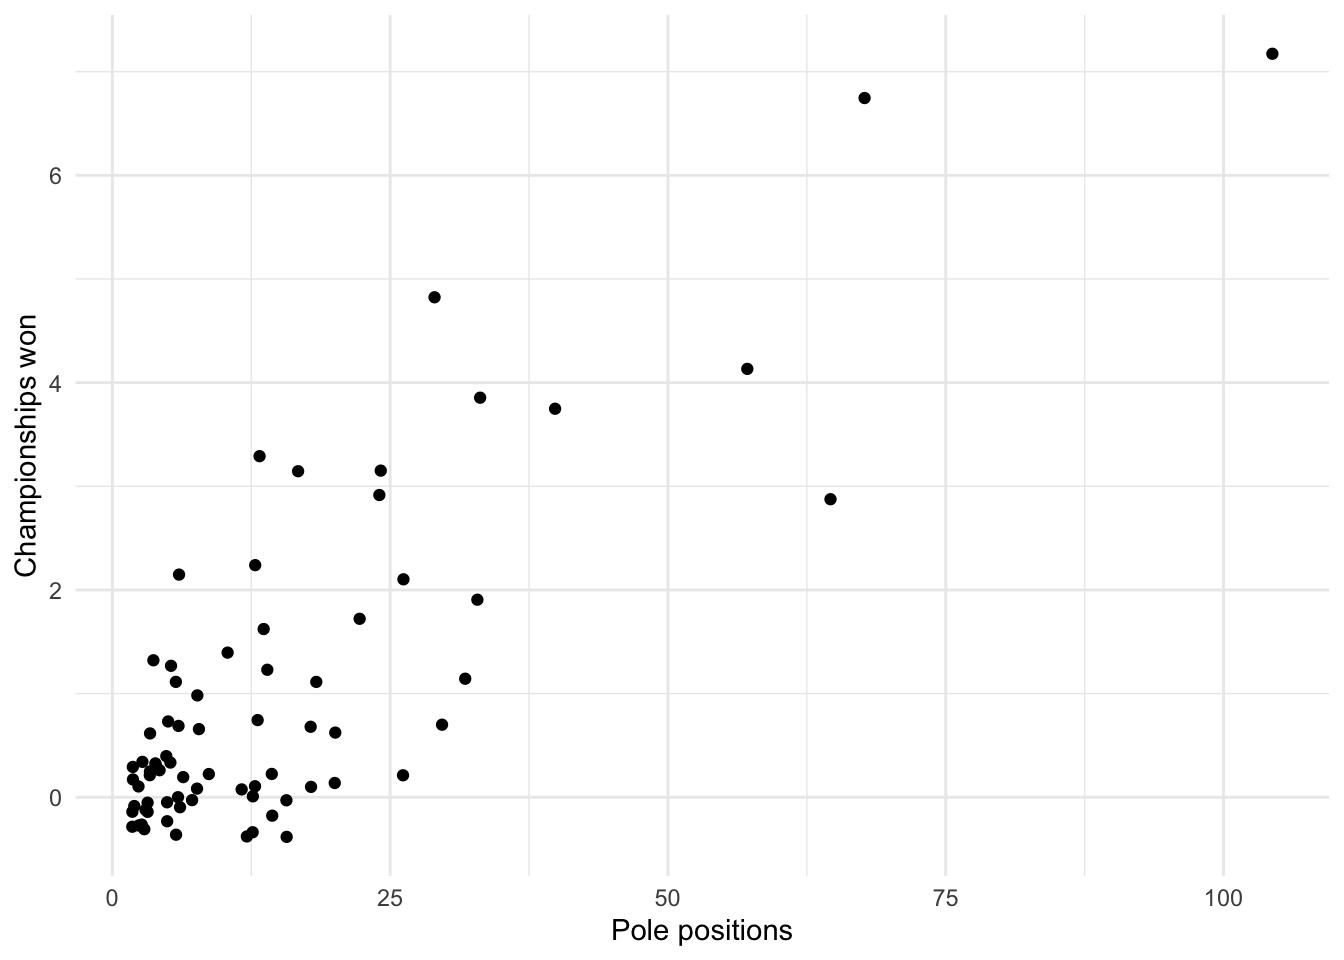
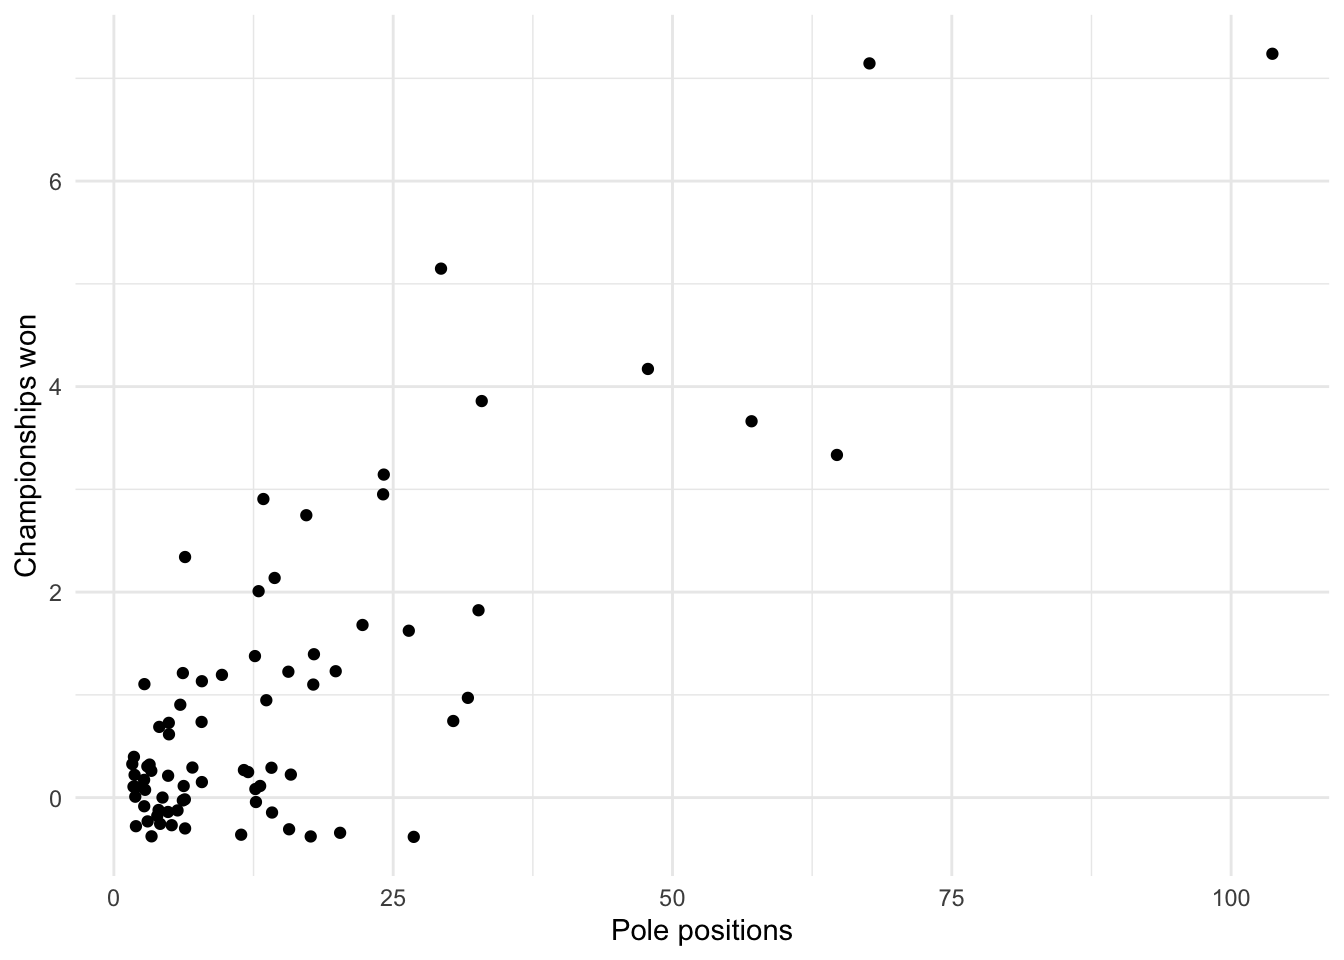
fix typo

diff --git a/content/blog/2023-01-16-web-scraping-in-r/index.html b/content/blog/2023-01-16-web-scraping-in-r/index.html
@@ -88,13 +88,13 @@ output:
 <p>Those instructions produce the following:</p>
 <p><img src="images/Screenshot%202023-01-16%20at%2018.24.24.png" style="width:100.0%" /></p>
 <p>As you read above, <strong>HTML</strong> is used to describe the infrastructure of a web page, for example we may want to define the headings, the paragraphs, etc.</p>
-<p>This infrastructure is represented by what are called <em>tags</em> (for example <code>&lt;h1&gt;...&lt;\h1&gt;</code> or <code>&lt;p&gt;...&lt;\p&gt;</code> are tags). Tags are the core of an HTML document as they represent the nature of what is inside the tag (for example <code>h1</code> stands for heading 1). It is important to observe that there are two types of tags:</p>
+<p>This infrastructure is represented by what are called <em>tags</em> (for example <code>&lt;h1&gt;...&lt;/h1&gt;</code> or <code>&lt;p&gt;...&lt;/p&gt;</code> are tags). Tags are the core of an HTML document as they represent the nature of what is inside the tag (for example <code>h1</code> stands for heading 1). It is important to observe that there are two types of tags:</p>
 <ul>
 <li>starting tags (e.g. <code>&lt;h1&gt;</code>)</li>
-<li>ending tags (e.g. <code>&lt;\h1&gt;</code>)</li>
+<li>ending tags (e.g. <code>&lt;/h1&gt;</code>)</li>
 </ul>
 <p>This is what allows to nest different tags.</p>
-<p>Tags can also have attributes, for example in <code>&lt;h1 href="https://en.wikipedia.org/wiki/Carl_Friedrich_Gauss"Carl Friedrich Gauss&lt;/h1&gt;</code>, <code>href</code> is an attribute of the tag <code>h1</code> that specifies an URL.</p>
+<p>Tags can also have attributes, for example in <code>&lt;h1 href="https://en.wikipedia.org/wiki/Carl_Friedrich_Gauss"&gt;Carl Friedrich Gauss&lt;/h1&gt;</code>, <code>href</code> is an attribute of the tag <code>h1</code> that specifies an URL.</p>
 <p>As the output of the above HTML code is not super elegant, <strong>CSS</strong> is used to style the final website. For example CSS is used to define the font, the color, the size, the spacing and many more features of a website.</p>
 <p>What is important for this article are <em>CSS selectors</em>, which are patterns used to select elements. The most important is the <code>.class</code> selector, which selects all elements with the same class. For example the <code>.xyz</code> selector selects all elements with <code>class="xyz"</code>.</p>
 </div>
@@ -122,7 +122,7 @@ output:
 <div id="rvest" class="section level2">
 <h2>rvest</h2>
 <p>Inspired by <code>beautiful soup</code> and <code>RoboBrowser</code> (two Python libraries for web scraping), <code>rvest</code> has a similar syntax, which makes it the most eligible package for those who come from Python.</p>
-<p><code>rvest</code> provides functions to access a web page and specific elements using CSS selectors and XPath. The library is a part of the <a href="https://www.tidyverse.org/">Tidyverse</a> collection of packages, i.e. it shares some coding conventions (e.g. the pipes) with other libraries as <code>tybble</code> and <code>ggplot2</code>.</p>
+<p><code>rvest</code> provides functions to access a web page and specific elements using CSS selectors and XPath. The library is a part of the <a href="https://www.tidyverse.org/">Tidyverse</a> collection of packages, i.e. it shares some coding conventions (e.g. the pipes) with other libraries as <code>tibble</code> and <code>ggplot2</code>.</p>
 <p>Before the real scraping it is necessary to load the <code>rvest</code> package:</p>
 <pre class="r"><code>library(rvest)</code></pre>
 <p>Now that everything is settled down, we can start the web scraping operation, which is usually made in 3 steps:</p>
@@ -143,9 +143,9 @@ output:
 
 NYT_page</code></pre>
 <pre><code>## {html_document}
-## &lt;html lang=&quot;en&quot; class=&quot; nytapp-vi-homepage &quot; xmlns:og=&quot;http://opengraphprotocol.org/schema/&quot;&gt;
+## &lt;html lang=&quot;en&quot; class=&quot;  nytapp-vi-homepage  tpl-always-light&quot; xmlns:og=&quot;http://opengraphprotocol.org/schema/&quot;&gt;
 ## [1] &lt;head&gt;\n&lt;meta http-equiv=&quot;Content-Type&quot; content=&quot;text/html; charset=UTF-8 ...
-## [2] &lt;body&gt;\n    &lt;div id=&quot;app&quot;&gt;\n&lt;a class=&quot;css-wsvg60&quot; href=&quot;#site-content&quot;&gt;Sk ...</code></pre>
+## [2] &lt;body&gt;\n    \n    &lt;div id=&quot;app&quot;&gt;\n&lt;link rel=&quot;preload&quot; as=&quot;image&quot; href=&quot;/v ...</code></pre>
 </div>
 <div id="parsing-html-content" class="section level2">
 <h2>Parsing HTML content</h2>
@@ -172,12 +172,12 @@ NYT_page</code></pre>
 
 head(summaries_css)</code></pre>
 <pre><code>## {xml_nodeset (6)}
-## [1] &lt;p class=&quot;summary-class css-ofqxyv&quot;&gt;The European Commission said it would ...
-## [2] &lt;p class=&quot;summary-class css-1l5zmz6&quot;&gt;President Trump imposed a 25 percent ...
-## [3] &lt;p class=&quot;summary-class css-1l5zmz6&quot;&gt;The deal delivered new momentum to e ...
-## [4] &lt;p class=&quot;summary-class css-1l5zmz6&quot;&gt;The system the U.S. took 80 years to ...
-## [5] &lt;p class=&quot;summary-class css-1l5zmz6&quot;&gt;The layoffs mean that the department ...
-## [6] &lt;p class=&quot;summary-class css-1l5zmz6&quot;&gt;An internal memo directed the closur ...</code></pre>
+## [1] &lt;p class=&quot;summary-class css-crclbt&quot;&gt;At least 18 were killed in Kyiv, offi ...
+## [2] &lt;p class=&quot;summary-class css-1vqq9lj&quot;&gt;Long-delayed funeral ceremonies for  ...
+## [3] &lt;p class=&quot;summary-class css-1vqq9lj&quot;&gt;Senior U.S. officials have said Iran ...
+## [4] &lt;p class=&quot;summary-class css-1vqq9lj&quot;&gt;One of England’s greatest World Cup  ...
+## [5] &lt;p class=&quot;summary-class css-1vqq9lj&quot;&gt;America’s 2-0 win over Bosnia and He ...
+## [6] &lt;p class=&quot;summary-class css-1vqq9lj&quot;&gt;Some data suggest artificial intelli ...</code></pre>
 <p>The easiest way to obtain a CSS selector is opening the inspect mode, find the element you desire and right click on it. Then click on <code>copy</code> and <code>copy selector</code>.</p>
 </div>
 <div id="xpath" class="section level3">
@@ -189,12 +189,12 @@ head(summaries_css)</code></pre>
 
 head(summaries_xpath)</code></pre>
 <pre><code>## {xml_nodeset (6)}
-## [1] &lt;p class=&quot;summary-class css-ofqxyv&quot;&gt;The European Commission said it would ...
-## [2] &lt;p class=&quot;summary-class css-1l5zmz6&quot;&gt;President Trump imposed a 25 percent ...
-## [3] &lt;p class=&quot;summary-class css-1l5zmz6&quot;&gt;The deal delivered new momentum to e ...
-## [4] &lt;p class=&quot;summary-class css-1l5zmz6&quot;&gt;The system the U.S. took 80 years to ...
-## [5] &lt;p class=&quot;summary-class css-1l5zmz6&quot;&gt;The layoffs mean that the department ...
-## [6] &lt;p class=&quot;summary-class css-1l5zmz6&quot;&gt;An internal memo directed the closur ...</code></pre>
+## [1] &lt;p class=&quot;summary-class css-crclbt&quot;&gt;At least 18 were killed in Kyiv, offi ...
+## [2] &lt;p class=&quot;summary-class css-1vqq9lj&quot;&gt;Long-delayed funeral ceremonies for  ...
+## [3] &lt;p class=&quot;summary-class css-1vqq9lj&quot;&gt;Senior U.S. officials have said Iran ...
+## [4] &lt;p class=&quot;summary-class css-1vqq9lj&quot;&gt;One of England’s greatest World Cup  ...
+## [5] &lt;p class=&quot;summary-class css-1vqq9lj&quot;&gt;America’s 2-0 win over Bosnia and He ...
+## [6] &lt;p class=&quot;summary-class css-1vqq9lj&quot;&gt;Some data suggest artificial intelli ...</code></pre>
 <p>Obviously the data we collected with CSS selector and XPath are exactly the same.</p>
 </div>
 </div>
@@ -205,12 +205,12 @@ head(summaries_xpath)</code></pre>
 NYT_summaries_xpath &lt;- html_text(summaries_xpath)</code></pre>
 <p>We only print some of them:</p>
 <pre class="r"><code>head(NYT_summaries_css)</code></pre>
-<pre><code>## [1] &quot;The European Commission said it would impose countermeasures on U.S. exports to the E.U., calling President Trump’s metals tariffs unjustified.&quot;             
-## [2] &quot;President Trump imposed a 25 percent tariff on metal imports from any country, escalating America’s trade dispute with global competitors.&quot;                  
-## [3] &quot;The deal delivered new momentum to efforts to halt the fighting, with the ball for any truce now in Russia’s court, said Secretary of State Marco Rubio.&quot;    
-## [4] &quot;The system the U.S. took 80 years to assemble is proving fragile as President Trump drives a revolution in how the country exercises power across the globe.&quot;
-## [5] &quot;The layoffs mean that the department will now have a work force of about half the size it did when President Trump took office.&quot;                             
-## [6] &quot;An internal memo directed the closure of offices designed to ease the disproportionately high pollution levels faced by poor and minority communities.&quot;</code></pre>
+<pre><code>## [1] &quot;At least 18 were killed in Kyiv, officials said. Ukraine’s president had warned of a “massive strike” as his country’s forces hit deeper into Russian territory.&quot;
+## [2] &quot;Long-delayed funeral ceremonies for Ayatollah Ali Khamenei, killed during U.S.-Israeli strikes at the war’s outset, are set to begin Friday.&quot;                    
+## [3] &quot;Senior U.S. officials have said Iran would be richly rewarded for changing its stance on America. But Tehran has rejected such a bargain in the past.&quot;           
+## [4] &quot;One of England’s greatest World Cup moments unfolded on Wednesday, a columnist for The Athletic writes.&quot;                                                         
+## [5] &quot;America’s 2-0 win over Bosnia and Herzegovina sets up a round-of-16 showdown with Belgium.&quot;                                                                      
+## [6] &quot;Some data suggest artificial intelligence is already causing job losses. Other sources show the opposite. Why is it so hard to figure out what’s going on?&quot;</code></pre>
 </div>
 </div>
 <div id="a-real-application-of-web-scraping-in-r" class="section level1">
@@ -257,7 +257,7 @@ NYT_summaries_xpath &lt;- html_text(summaries_xpath)</code></pre>
 ##   `Driver name`  Nationality `Seasons competed`   `Drivers&#39; Championships`
 ##   &lt;chr&gt;          &lt;chr&gt;       &lt;chr&gt;                &lt;chr&gt;                   
 ## 1 Emilio Zapico  Spain       1976                 0                       
-## 2 Zhou Guanyu*   China       2022–2024            0                       
+## 2 Zhou Guanyu    China       2022–2024            0                       
 ## 3 Ricardo Zonta  Brazil      1999–2001, 2004–2005 0                       
 ## 4 Renzo Zorzi    Italy       1975–1977            0                       
 ## 5 Ricardo Zunino Argentina   1979–1981            0                       
@@ -266,18 +266,18 @@ NYT_summaries_xpath &lt;- html_text(summaries_xpath)</code></pre>
 ## #   `Pole positions` &lt;chr&gt;, `Race wins` &lt;chr&gt;, Podiums &lt;chr&gt;,
 ## #   `Fastest laps` &lt;chr&gt;, `Points[a]` &lt;chr&gt;</code></pre>
 <pre class="r"><code>str(drivers_F1) # structure of the dataset</code></pre>
-<pre><code>## tibble [871 × 11] (S3: tbl_df/tbl/data.frame)
-##  $ Driver name           : chr [1:871] &quot;Carlo Abate&quot; &quot;George Abecassis&quot; &quot;Kenny Acheson&quot; &quot;Andrea de Adamich&quot; ...
-##  $ Nationality           : chr [1:871] &quot;Italy&quot; &quot;United Kingdom&quot; &quot;United Kingdom&quot; &quot;Italy&quot; ...
-##  $ Seasons competed      : chr [1:871] &quot;1962–1963&quot; &quot;1951–1952&quot; &quot;1983, 1985&quot; &quot;1968, 1970–1973&quot; ...
-##  $ Drivers&#39; Championships: chr [1:871] &quot;0&quot; &quot;0&quot; &quot;0&quot; &quot;0&quot; ...
-##  $ Race entries          : chr [1:871] &quot;3&quot; &quot;2&quot; &quot;10&quot; &quot;36&quot; ...
-##  $ Race starts           : chr [1:871] &quot;0&quot; &quot;2&quot; &quot;3&quot; &quot;30&quot; ...
-##  $ Pole positions        : chr [1:871] &quot;0&quot; &quot;0&quot; &quot;0&quot; &quot;0&quot; ...
-##  $ Race wins             : chr [1:871] &quot;0&quot; &quot;0&quot; &quot;0&quot; &quot;0&quot; ...
-##  $ Podiums               : chr [1:871] &quot;0&quot; &quot;0&quot; &quot;0&quot; &quot;0&quot; ...
-##  $ Fastest laps          : chr [1:871] &quot;0&quot; &quot;0&quot; &quot;0&quot; &quot;0&quot; ...
-##  $ Points[a]             : chr [1:871] &quot;0&quot; &quot;0&quot; &quot;0&quot; &quot;6&quot; ...</code></pre>
+<pre><code>## tibble [878 × 11] (S3: tbl_df/tbl/data.frame)
+##  $ Driver name           : chr [1:878] &quot;Carlo Abate&quot; &quot;George Abecassis&quot; &quot;Kenny Acheson&quot; &quot;Andrea de Adamich&quot; ...
+##  $ Nationality           : chr [1:878] &quot;Italy&quot; &quot;United Kingdom&quot; &quot;United Kingdom&quot; &quot;Italy&quot; ...
+##  $ Seasons competed      : chr [1:878] &quot;1962–1963&quot; &quot;1951–1952&quot; &quot;1983, 1985&quot; &quot;1968, 1970–1973&quot; ...
+##  $ Drivers&#39; Championships: chr [1:878] &quot;0&quot; &quot;0&quot; &quot;0&quot; &quot;0&quot; ...
+##  $ Race entries          : chr [1:878] &quot;3&quot; &quot;2&quot; &quot;10&quot; &quot;36&quot; ...
+##  $ Race starts           : chr [1:878] &quot;0&quot; &quot;2&quot; &quot;3&quot; &quot;30&quot; ...
+##  $ Pole positions        : chr [1:878] &quot;0&quot; &quot;0&quot; &quot;0&quot; &quot;0&quot; ...
+##  $ Race wins             : chr [1:878] &quot;0&quot; &quot;0&quot; &quot;0&quot; &quot;0&quot; ...
+##  $ Podiums               : chr [1:878] &quot;0&quot; &quot;0&quot; &quot;0&quot; &quot;0&quot; ...
+##  $ Fastest laps          : chr [1:878] &quot;0&quot; &quot;0&quot; &quot;0&quot; &quot;0&quot; ...
+##  $ Points[a]             : chr [1:878] &quot;0&quot; &quot;0&quot; &quot;0&quot; &quot;6&quot; ...</code></pre>
 <p>Now that we have a tibble (a sort of dataframe used in the <code>tidyverse</code> universe), we just need to select the variables of interest and eliminate the last row that contains the name of the variables:</p>
 <pre class="r"><code>drivers_F1 &lt;- drivers_F1[c(1:4, 7:9)] # select variables
 
@@ -306,7 +306,7 @@ drivers_F1 &lt;- drivers_F1[-nrow(drivers_F1), ] # remove last row</code></pre>
 <pre><code>## # A tibble: 48 × 2
 ##    Nationality    championship_country
 ##    &lt;chr&gt;                         &lt;dbl&gt;
-##  1 United Kingdom                   20
+##  1 United Kingdom                   21
 ##  2 Germany                          12
 ##  3 Brazil                            8
 ##  4 Argentina                         5
@@ -324,7 +324,7 @@ drivers_F1 &lt;- drivers_F1[-nrow(drivers_F1), ] # remove last row</code></pre>
   group_by(`Driver name`) %&gt;%
   summarise(championship_pilot = sum(as.double(`Drivers&#39; Championships`))) %&gt;%
   arrange(desc(championship_pilot))</code></pre>
-<pre><code>## # A tibble: 870 × 2
+<pre><code>## # A tibble: 877 × 2
 ##    `Driver name`       championship_pilot
 ##    &lt;chr&gt;                            &lt;dbl&gt;
 ##  1 Lewis Hamilton~                      7
@@ -337,7 +337,7 @@ drivers_F1 &lt;- drivers_F1[-nrow(drivers_F1), ] # remove last row</code></pre>
 ##  8 Jack Brabham^                        3
 ##  9 Jackie Stewart^                      3
 ## 10 Nelson Piquet^                       3
-## # ℹ 860 more rows</code></pre>
+## # ℹ 867 more rows</code></pre>
 <p>Sorry Michael, it looks like Lewis dethroned you.</p>
 <ol start="3" style="list-style-type: decimal">
 <li>Is there a relation between the number of Championships won and the number of race pole positions?</li>
@@ -348,7 +348,7 @@ drivers_F1 &lt;- drivers_F1[-nrow(drivers_F1), ] # remove last row</code></pre>
   geom_point(position = &quot;jitter&quot;) +
   labs(y = &quot;Championships won&quot;, x = &quot;Pole positions&quot;) +
   theme_minimal()</code></pre>
-<p><img src="{{< blogdown/postref >}}index_files/figure-html/unnamed-chunk-23-1.png" width="100%" style="display: block; margin: auto;" /></p>
+<p><img src="{{< blogdown/postref >}}index_files/figure-html/unnamed-chunk-23-1.png" alt="" width="100%" style="display: block; margin: auto;" /></p>
 <p>As expected, there seems to be a positive relationship between the number of pole positions and the number of Championships won. To quantify this relationship, we could build a <a href="/blog/multiple-linear-regression-made-simple/">linear model</a> but this is beyond the scope of the article.</p>
 </div>
 </div>